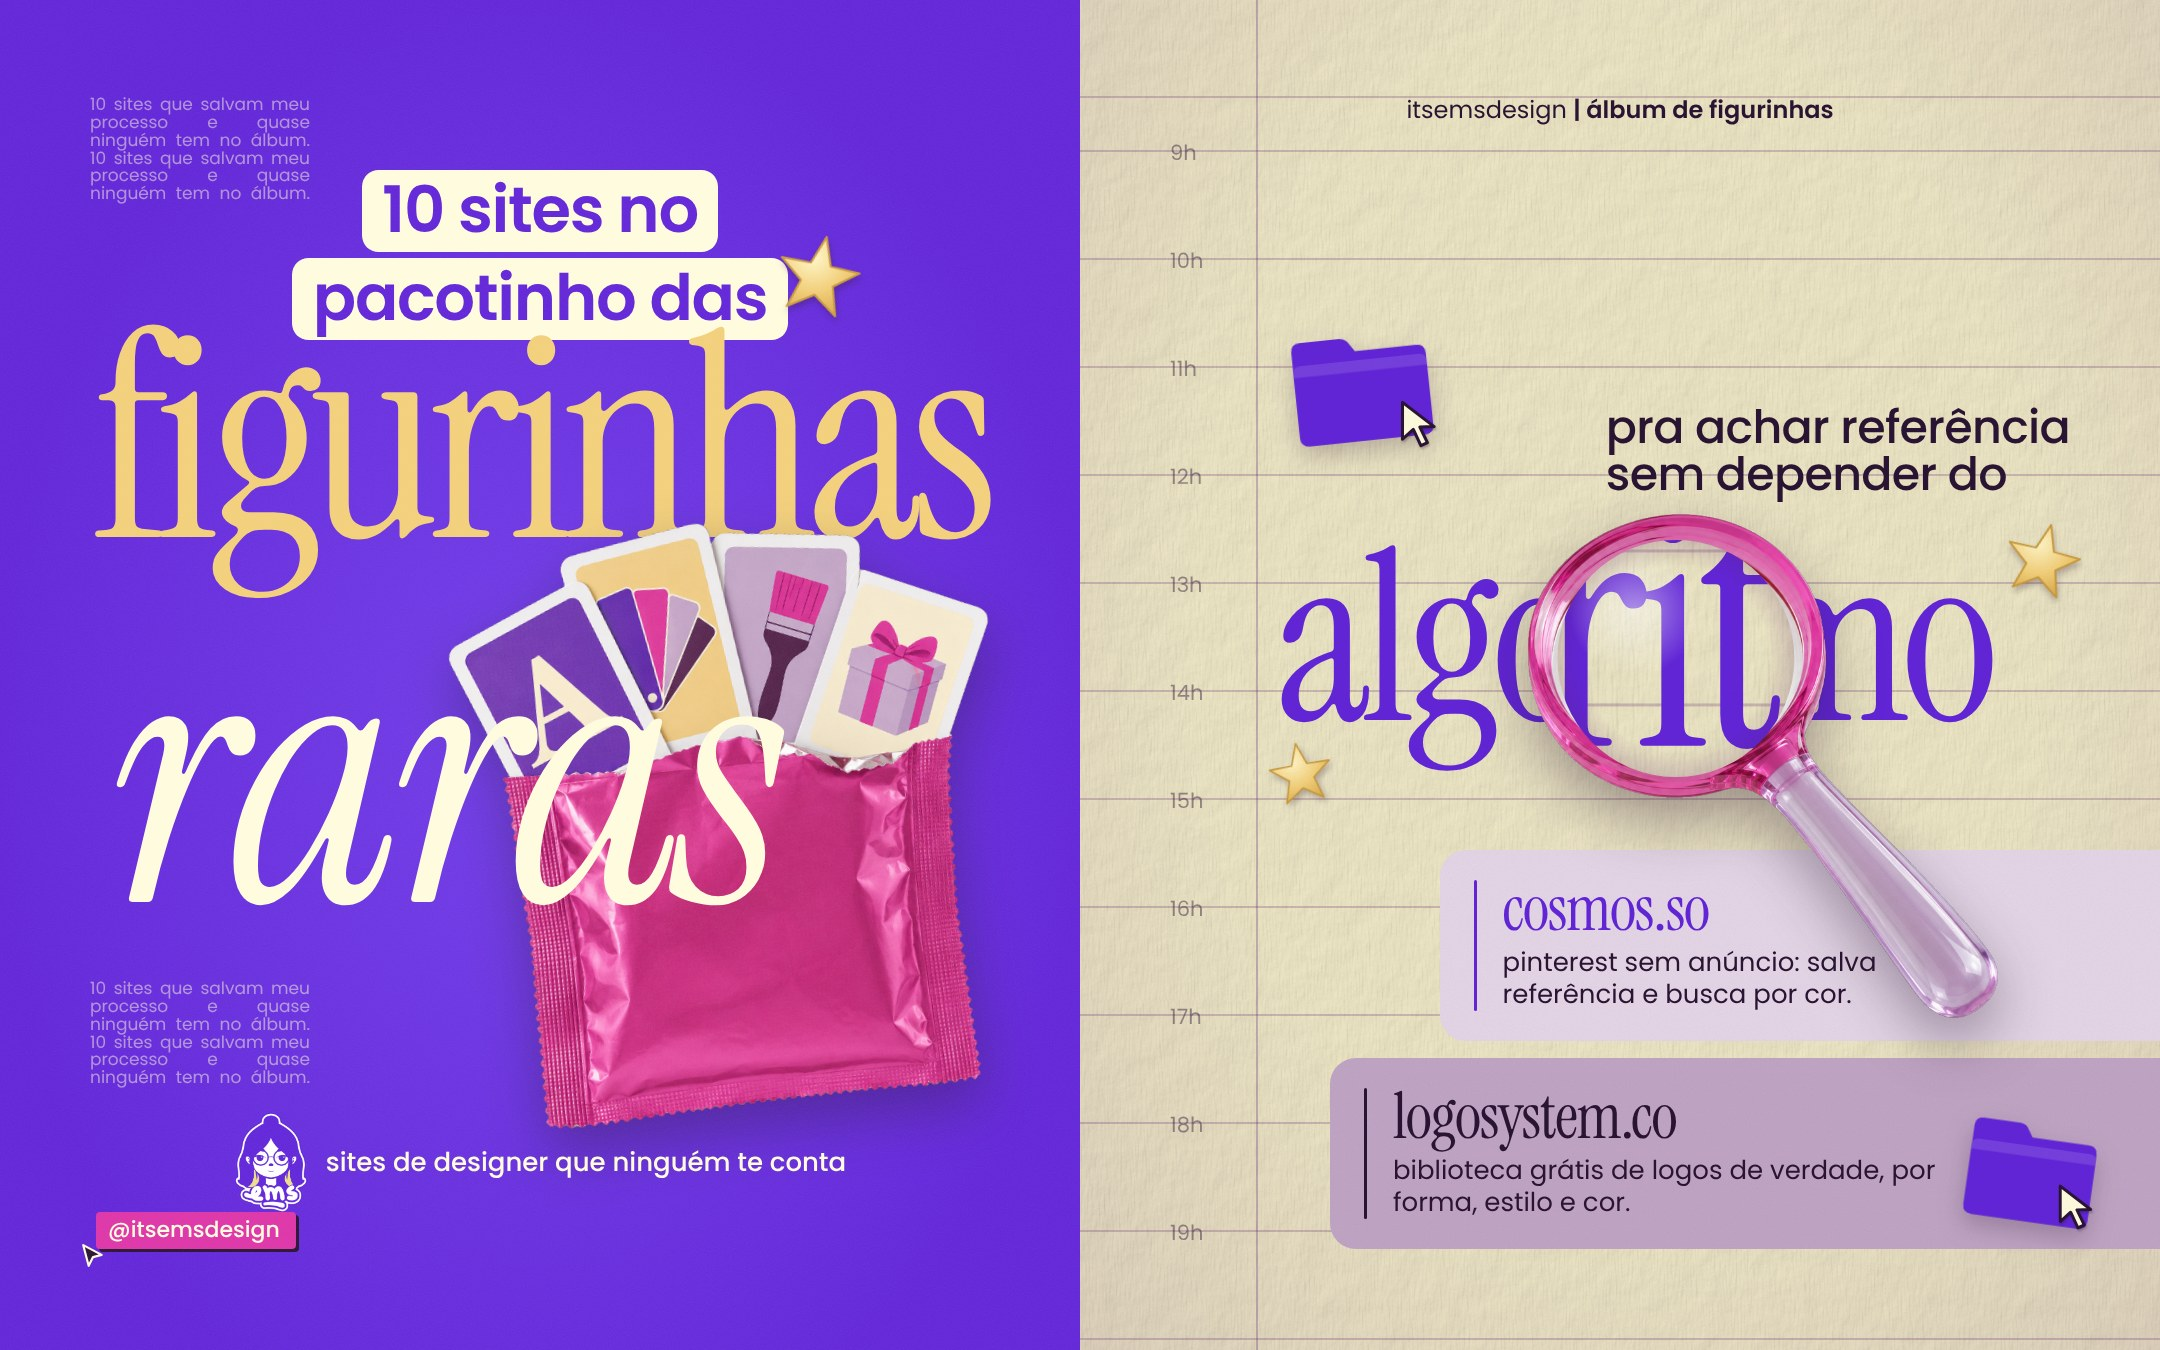
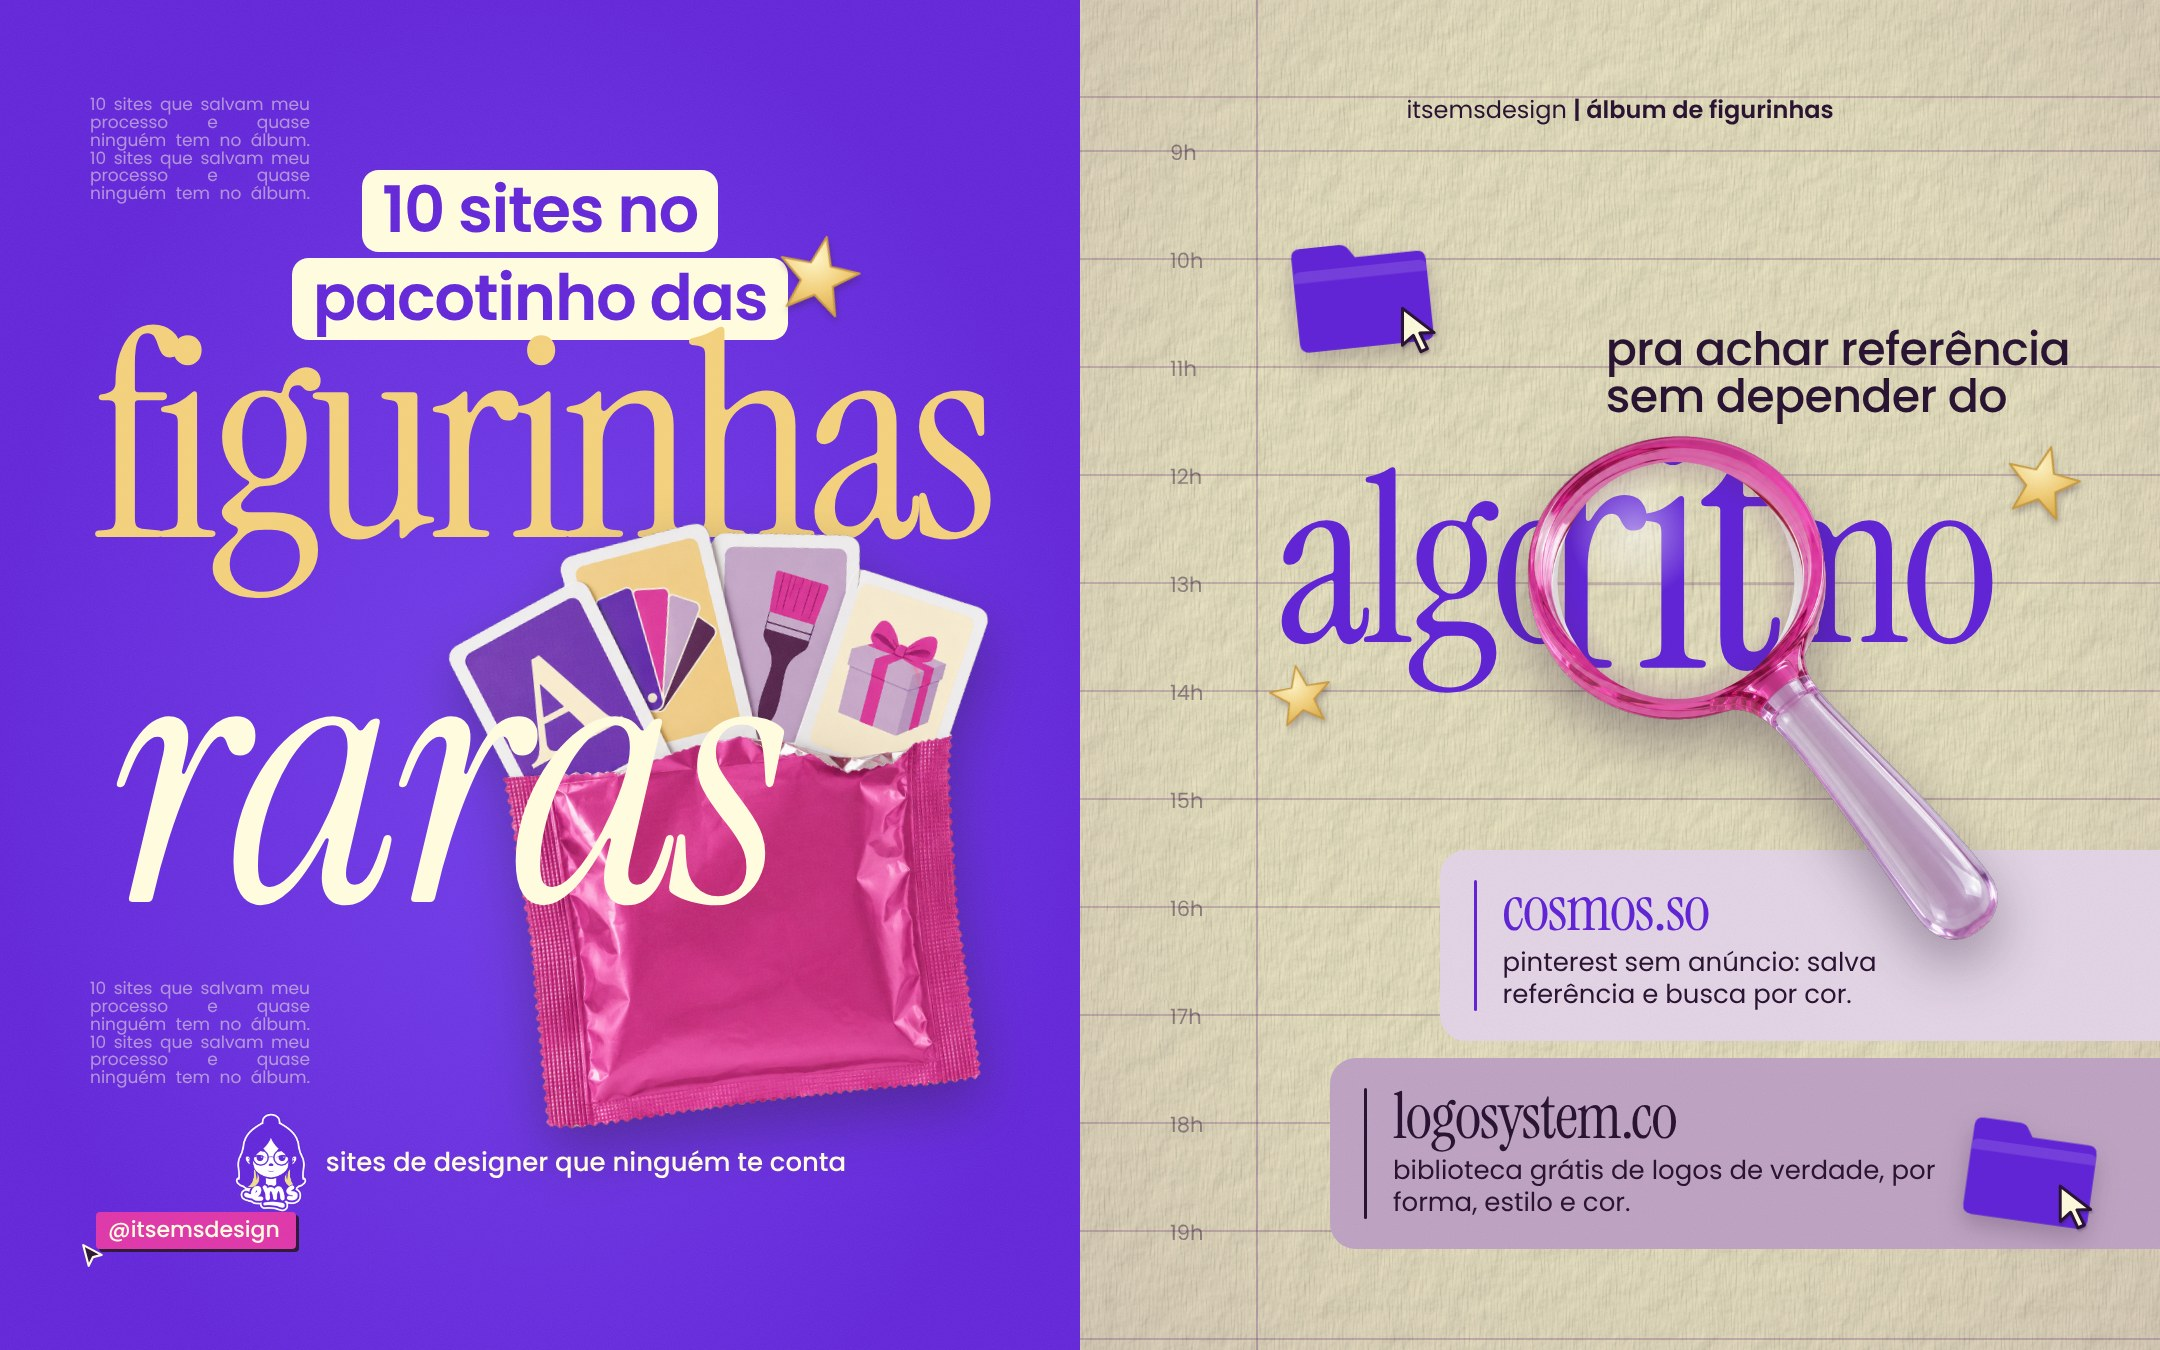
EMS figurinhas raras v4: título da pesquisa mais alto e textura de papel mais visível
Claude-Session: https://claude.ai/code/session_01CmCiKB9wFc4qQovptupnZT

Changed region(s): [[0.5894, 0.1867, 0.9616, 0.7778]]

diff --git a/Emi/ems-album-figurinhas/projeto/carrossel.html b/Emi/ems-album-figurinhas/projeto/carrossel.html
@@ -89,8 +89,8 @@ function lamina(k, html, fundo, grao = 'grao') {
 /* ================= 2 · pesquisa — diagramação da ref 8 (agenda) ================= */
 const PAUTA0 = 150, PASSO = 108;
 const FOLHA = `<div class="abs" style="inset:0;background:var(--ivory-2)"></div>
-      <div class="abs" style="inset:0;background-image:var(--tx-relevo);background-size:700px;mix-blend-mode:multiply;opacity:.32"></div>
-      <div class="abs" style="inset:0;background-image:var(--tx-fibras);background-size:500px;mix-blend-mode:multiply;opacity:.22"></div>
+      <div class="abs" style="inset:0;background-image:var(--tx-relevo);background-size:700px;mix-blend-mode:multiply;opacity:.6"></div>
+      <div class="abs" style="inset:0;background-image:var(--tx-fibras);background-size:500px;mix-blend-mode:multiply;opacity:.4"></div>
       <div class="abs" style="left:176px;top:0;bottom:0;width:2px;background:rgba(91,33,108,.28)"></div>
       <div class="abs" style="inset:0;background:repeating-linear-gradient(to bottom, rgba(91,33,108,.24) 0 2px, transparent 2px ${PASSO}px);background-position:0 ${PAUTA0}px"></div>
       <div class="abs" style="inset:0;background:radial-gradient(ellipse at 50% 45%, transparent 55%, rgba(91,33,108,.10))"></div>`;
@@ -101,12 +101,12 @@ const FOLHA = `<div class="abs" style="inset:0;background:var(--ivory-2)"></div>
   lamina(1, `
     <div class="abs" style="left:0;right:0;top:92px;text-align:center;font-family:var(--sans);font-size:24px;color:var(--tinta)">itsemsdesign <b style="font-weight:600">| álbum de figurinhas</b></div>
     ${linhas}
-    ${pasta(206, 330, 150, -6, css('violeta'))}
-    ${cursor(316, 398, 52)}
-    <div class="abs" style="right:90px;top:404px;text-align:left;font-family:var(--sans);font-weight:500;font-size:46px;line-height:1.02;color:var(--tinta);letter-spacing:-.015em">pra achar referência<br>sem depender do</div>
-    <div class="g" id="alg" style="left:196px;top:548px;font-size:236px;color:var(--violeta)">algoritmo</div>
-    ${estrela({ x: 920, y: 520, tam: 84, r: 14 })}
-    ${estrela({ x: 186, y: 740, tam: 70, r: -10 })}
+    ${pasta(206, 236, 150, -6, css('violeta'))}
+    ${cursor(316, 304, 52)}
+    <div class="abs" style="right:90px;top:326px;text-align:left;font-family:var(--sans);font-weight:500;font-size:46px;line-height:1.02;color:var(--tinta);letter-spacing:-.015em">pra achar referência<br>sem depender do</div>
+    <div class="g" id="alg" style="left:196px;top:470px;font-size:236px;color:var(--violeta)">algoritmo</div>
+    ${estrela({ x: 920, y: 442, tam: 84, r: 14 })}
+    ${estrela({ x: 186, y: 662, tam: 70, r: -10 })}
     <div class="barra" style="left:360px;right:0;top:850px;background:var(--lavanda-2)">
       <div class="fio" style="background:var(--violeta)"></div>
       <div><span class="nome" style="color:var(--violeta)">${s1.nome}</span><span class="pra" style="color:var(--tinta)">${s1.pra}</span></div></div>
